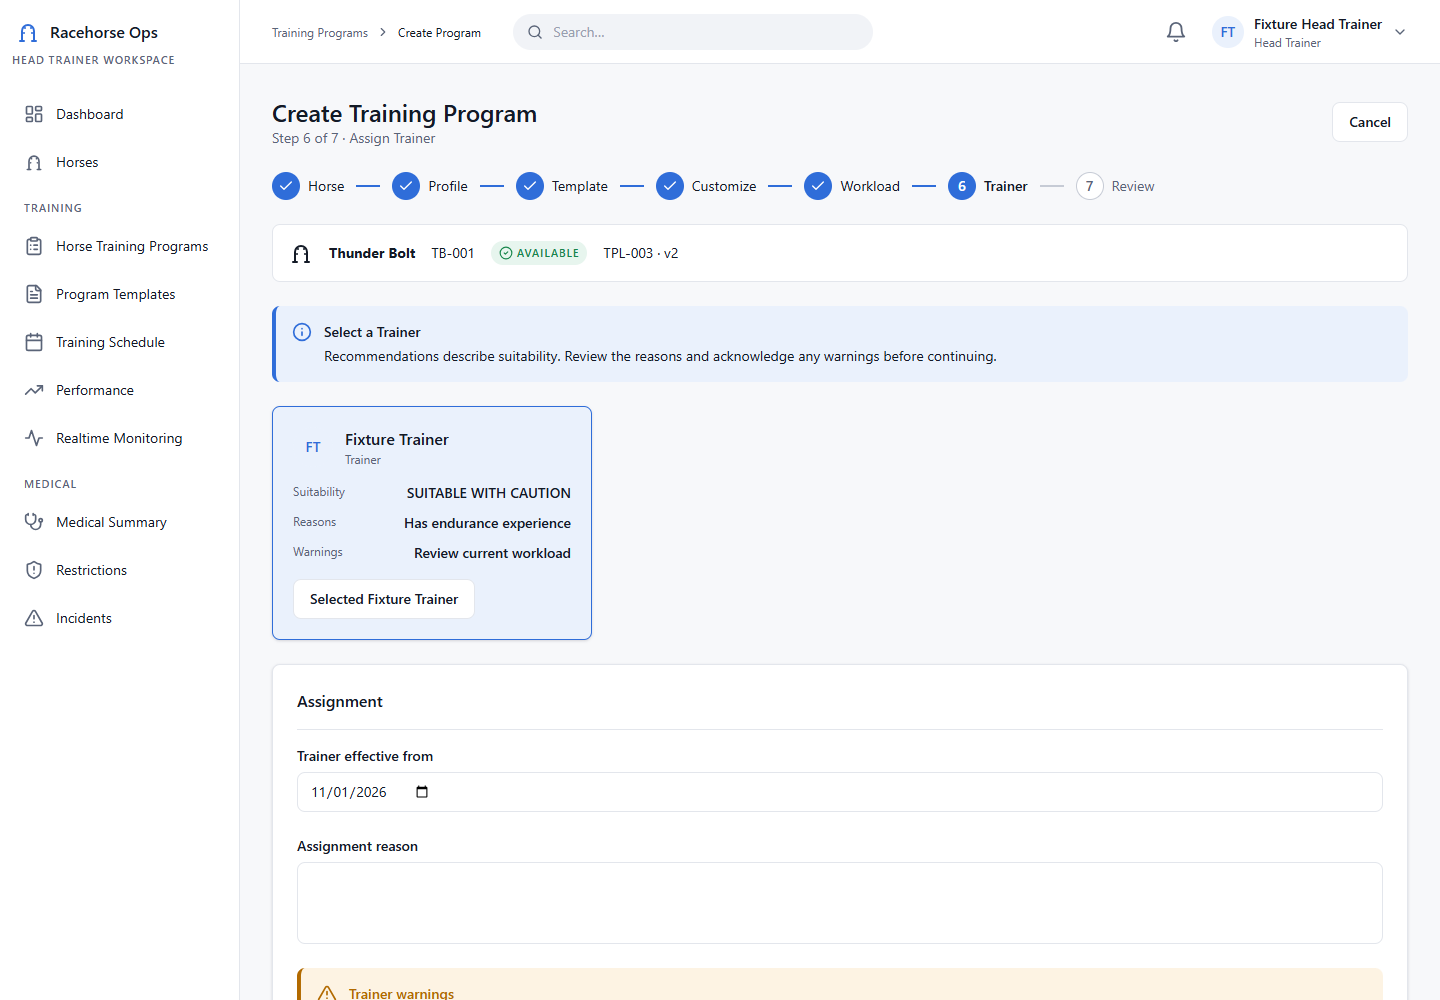
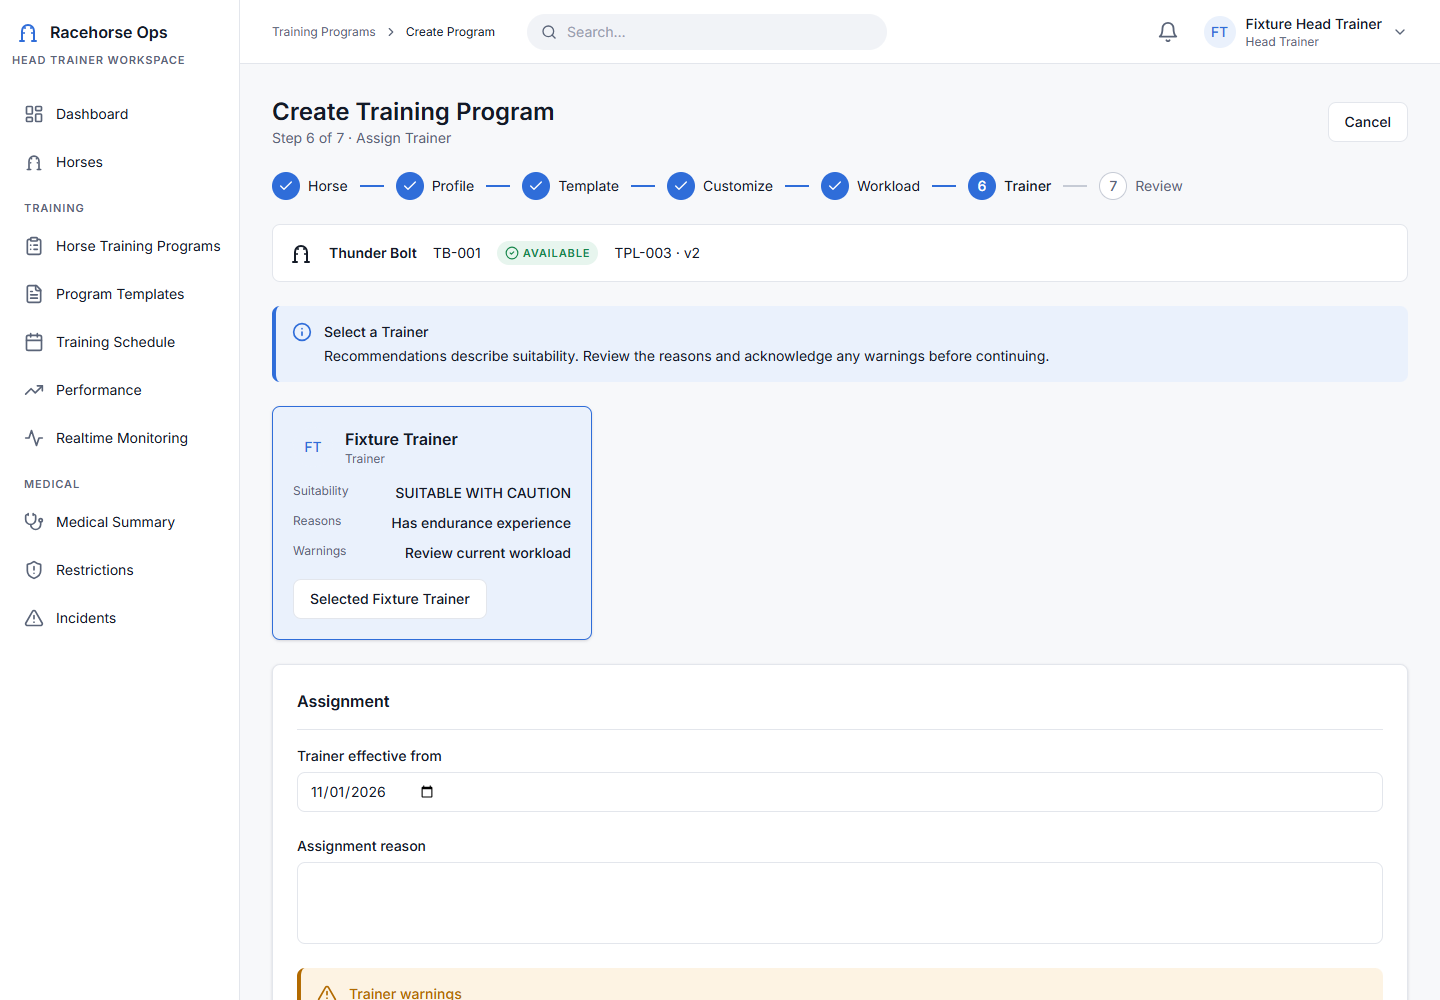
docs(CORE-022): capture production preview smoke evidence

diff --git a/docs/CORE-022-handoff.md b/docs/CORE-022-handoff.md
@@ -81,7 +81,7 @@ authorized this scope with CORE-005/Figma; this handoff does not claim full Play
 | `npm run typecheck` | PASS |
 | `npm run build` | PASS, 153 modules |
 | `git diff --check` | PASS |
-| Chrome 155.0.8059.41, 1440×1000 | Workspace → wizard → one POST → result 1001 → GET read-back PASS; no page errors |
+| Chrome 155.0.8059.41, 1440×1000, production preview | Workspace → wizard → one POST → result 1001 → GET read-back PASS; no page/console/request errors |
 
 The 128 tests belong to this CORE-022 working tree with merged dev, not the old adapter HEAD or a separate combined
 branch. HTTP fixtures exercise the actual router/AuthProvider/requestApi: Head Trainer full flow/payload; six other
@@ -90,6 +90,9 @@ validation; warning acknowledgement; duplicate submit; 400 field errors; 409 rea
 retry; expired/inactive session handling; forbidden payload fields.
 
 Screenshots use fixture data only:
+
+The screenshots were refreshed against the production build so bundled font assets load without the local dev
+server's node_modules-junction allow-list restriction. No application source changed after the final code checks.
 
 - [Horse selection](evidence/CORE-022/01-horse.png)
 - [Customize](evidence/CORE-022/04-customize.png)
